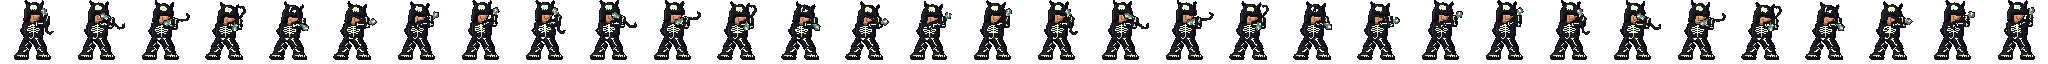
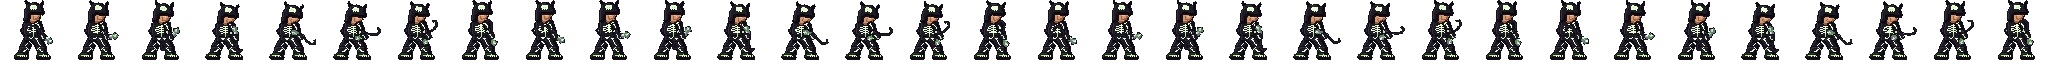
NU: thrown mic flies straight on its cord, idle twirl at his waist, HOMEROOM school-uniform costume with a locker-and-boombox amp
Claude-Session: https://claude.ai/code/session_01QrPMowW61BtpNneRMoKnVz

diff --git a/src/fighters/entities.js b/src/fighters/entities.js
@@ -556,7 +556,7 @@ export class MicToss {
     const h = this.hand(); this.x = h.x + this.dir * 4; this.y = h.y;
     this.vx = this.dir * spec.speed; this.vy = -0.4;
     this.phase = 'out'; this.t = 0; this.pt = 0; this.alive = true; this.id = nextId++; this.persist = true; this.kind = 'MIC TOSS';
-    this.beat = !!owner.onBeatMove; this.spin = 0;
+    this.beat = !!owner.onBeatMove;
     this.g = match.add.graphics(); match.addWorld(this.g);
     sfx('swing', 0.6, 1.2); sfx('whoosh', 0.3, 1.6);
   }
@@ -568,7 +568,7 @@ export class MicToss {
   }
   step() {
     const S = this.spec, o = this.owner;
-    this.t++; this.pt++; this.spin += this.phase === 'out' ? 0.6 : -0.6;
+    this.t++; this.pt++;
     if (!o.alive) { this.remove(); return; }
     const h = this.hand();
     if (this.phase === 'out') {
@@ -597,8 +597,8 @@ export class MicToss {
       const u = i / 12, qx = (1 - u) * (1 - u) * h.x + 2 * (1 - u) * u * mx + u * u * x, qy = (1 - u) * (1 - u) * h.y + 2 * (1 - u) * u * my + u * u * y;
       g.lineStyle(2, 0x14101c, 1); g.lineBetween(px, py, qx, qy); px = qx; py = qy;
     }
-    // the mic, tumbling end over end: handle and grille
-    const a = this.spin, cx = Math.cos(a), sy = Math.sin(a);
+    // the mic flies straight, lined up with its cord: handle toward his hand, grille leading
+    const a = Math.atan2(y - h.y, x - h.x), cx = Math.cos(a), sy = Math.sin(a);
     g.lineStyle(4, 0x14101c, 1); g.lineBetween(x - cx * 5, y - sy * 5, x + cx * 3, y + sy * 3);
     g.lineStyle(2, 0xb8c0ca, 1); g.lineBetween(x - cx * 5, y - sy * 5, x + cx * 3, y + sy * 3);
     g.fillStyle(0x14101c, 1); g.fillCircle(x + cx * 5, y + sy * 5, 4);
@@ -618,6 +618,9 @@ export class SpeakerAmp {
     this.x = owner.x + owner.facing * spec.ahead; this.y = owner.y - spec.dropFrom;
     this.vy = 1; this.falling = true; this.pulse = 0; this.crushed = new Set(); this.id = nextId++;
     this.g = match.add.graphics(); match.addWorld(this.g);
+    // costumes with their own amp drawing (HOMEROOM: a locker with a boombox on top)
+    const key = { nuSchool: 'nu_school_amp' }[owner.style];
+    if (key && match.textures.exists(key)) { this.img = match.add.sprite(this.x, this.y, key, 0).setOrigin(0.5, 1); match.addWorld(this.img); }
     sfx('swing', 0.5, 0.6);
   }
   step() {
@@ -680,6 +683,7 @@ export class SpeakerAmp {
     this.plat = { x1: this.x - 15, x2: this.x + 15, y: this.y - 60, solid: false, amp: true };
     this.match.stage.platforms.push(this.plat);
     sfx('bighit', 0.7, 0.6); this.match.shake(6, 6);
+    if (this.img) { sfx('ding', 0.5, 1.2); sfx('ding', 0.35, 1.5); }               // HOMEROOM: the school bell rings
     this.match.puff(this.x - 14, this.y - 2, 0xd8d4e8, 6); this.match.puff(this.x + 14, this.y - 2, 0xd8d4e8, 6);
   }
   removePlat() {
@@ -689,7 +693,7 @@ export class SpeakerAmp {
     for (const f of this.match.fighters) if (f.platform === this.plat) { f.grounded = false; f.platform = null; if (['idle', 'run', 'land', 'taunt'].includes(f.state)) f.setState('air'); }
     this.plat = null;
   }
-  kill() { if (!this.alive) return; this.alive = false; this.stopSong(); this.removePlat(); if (this.g) { this.match.puff(this.x, this.y - 12, 0x4a4656, 8); this.g.destroy(); } }
+  kill() { if (!this.alive) return; this.alive = false; this.stopSong(); this.removePlat(); if (this.img) this.img.destroy(); if (this.g) { this.match.puff(this.x, this.y - 12, 0x4a4656, 8); this.g.destroy(); } }
   render() {
     if (!this.alive) return;
     const g = this.g, P = this.owner.pal, fade = this.life - this.t < 40 ? (this.life - this.t) / 40 : 1;
@@ -702,6 +706,10 @@ export class SpeakerAmp {
       const r = (1 - k) * this.spec.radius;
       g.lineStyle(3, P.light, 0.8 * k * fade); g.strokeEllipse(this.x, this.y - 28, r * 2 + 20, (r * 2 + 20) / 1.4);
       g.lineStyle(1, 0xffffff, k * fade); g.strokeEllipse(this.x, this.y - 28, r * 1.7 + 14, (r * 1.7 + 14) / 1.4);
+    }
+    if (this.img) {                                                   // a costume's own drawing: two frames, cones pumped on the beat
+      this.img.setPosition(Math.round(this.x), Math.round(this.y)).setScale(1 / squash, squash).setAlpha(fade).setFrame(k > 0.35 ? 1 : 0).setDepth(this.g.depth);
+      return;
     }
     // two cabinets stacked: a big single cone on the bottom, two smaller cones on top
     for (let c = 0; c < 2; c++) {

diff --git a/src/scenes/MatchScene.js b/src/scenes/MatchScene.js
@@ -517,6 +517,11 @@ export class MatchScene extends Phaser.Scene {
     const n = v.n + Math.floor(kb / 2);
     const add = (o) => P.push({ size: 2, grav: 0.08, ...o });
     switch (v.shape) {
+      case 'paper':                                   // HOMEROOM: notebook paper scraps and chalk dust; big hits fold a paper airplane
+        for (let i = 0; i < n; i++) { const a = -Math.PI / 2 + (R() - 0.5) * 2.8, sp = 1.4 + R() * 2.6; add({ shape: 'paper', x, y, vx: Math.cos(a) * sp + dir * 0.6, vy: Math.sin(a) * sp, life: 34 + R() * 16, color: col(i), ang: R() * 6, spin: (R() - 0.5) * 0.3, drag: 0.94, grav: 0.05, sway: R() * 6 }); }
+        for (let i = 0; i < 6; i++) add({ x: x + (R() - 0.5) * 14, y: y + (R() - 0.5) * 10, vx: (R() - 0.5) * 1.2, vy: -R(), life: 16 + R() * 10, color: 0xf4f4f0, size: 1 + (R() < 0.3), grav: 0, drag: 0.92 });
+        if (dmg >= 9 || kb > 7) add({ shape: 'plane', x, y: y - 6, vx: dir * 3.2, vy: -1.4, life: 46, color: 0xffffff, grav: 0.02, dir });
+        break;
       case 'splat':                                   // BLOCK BOSS: spray-paint splats flying off, dripping
         for (let i = 0; i < n; i++) { const a = -Math.PI / 2 + (R() - 0.5) * 2.8, sp = 1.5 + R() * 3; add({ shape: 'splat', x, y, vx: Math.cos(a) * sp + dir, vy: Math.sin(a) * sp, life: 24 + R() * 14, color: col(i), r: 2 + Math.floor(R() * 3), drag: 0.9, grav: 0.12 }); }
         if (dmg >= 9 || kb > 7) for (let i = 0; i < 4; i++) add({ shape: 'star', x: x + (R() - 0.5) * 20, y: y - 10 + (R() - 0.5) * 16, vx: (R() - 0.5), vy: -1, life: 20, color: 0xffd23a, grav: 0 });   // bling on the big hits
@@ -567,6 +572,17 @@ export class MatchScene extends Phaser.Scene {
     const a = Math.min(1, p.life / 10), X = Math.round(p.x), Y = Math.round(p.y);
     switch (p.shape) {
       case 'win95': drawMiniWindow(g, X - 4, Y - 3, 9, 7, a, p.color); break;
+      case 'paper': {                                 // a scrap of lined notebook paper, fluttering
+        p.ang = (p.ang || 0) + (p.spin || 0.2); const w = Math.max(1, Math.round(Math.abs(Math.cos(p.ang)) * 4));
+        g.fillStyle(0x10101a, a * 0.6); g.fillRect(X - w / 2 - 1, Y - 3, w + 2, 6);
+        g.fillStyle(p.color, a); g.fillRect(X - w / 2, Y - 2, w, 4); if (w > 1) { g.fillStyle(0x8ab0e8, a); g.fillRect(X - w / 2, Y, w, 1); } break;
+      }
+      case 'plane': {                                 // a paper airplane gliding
+        const d2 = p.dir || 1;
+        g.fillStyle(0x10101a, a); g.fillTriangle(X + d2 * 6, Y, X - d2 * 6, Y - 4, X - d2 * 4, Y + 1);
+        g.fillStyle(0xffffff, a); g.fillTriangle(X + d2 * 5, Y, X - d2 * 5, Y - 3, X - d2 * 3, Y);
+        g.fillStyle(0xc8d0e0, a); g.fillTriangle(X + d2 * 5, Y, X - d2 * 3, Y, X - d2 * 4, Y + 2); break;
+      }
       case 'splat': g.fillStyle(p.color, a); g.fillCircle(X, Y, p.r); g.fillRect(X - 1, Y, 2, p.r + 2); g.fillStyle(0xffffff, a * 0.6); g.fillRect(X - 1, Y - p.r + 1, 1, 1); break;   // a paint splat with a drip
       case 'bone': {                                  // a little bone, tumbling
         p.ang = (p.ang || 0) + (p.spin || 0.3); const c = Math.cos(p.ang) * 3, s2 = Math.sin(p.ang) * 3;

diff --git a/src/fighters/skins.js b/src/fighters/skins.js
@@ -178,6 +178,14 @@ export const SKINS = {
       lore: 'Wore it to one Halloween show and never took it off. The bones started glowing on their own.',
       pal: { outline: 0x08060c, deep: 0x2a6a1a, mid: 0x4ab02a, light: 0x9aff6a, core: 0xe8ffd8, shade: 0x0e1a0a, void: 0x040804 },
       vfx: { hit: { shape: 'bones', colors: [0xe8ffd8, 0x9aff6a, 0xffffff], n: 6, ring: 0x9aff6a }, aura: { spooky: true }, trail: 0x9aff6a } },
+    // HOMEROOM: a school uniform worn his way - navy blazer with a gold crest, loose red tie, grey slacks, loafers, a
+    // red backpack and a red sweatband (pre-drawn sheets). His AMP DROP is a school locker with a boombox on top
+    // (school/amp.png) that rings the school bell when it lands. Paper and chalk dust fly off his hits, paper
+    // airplanes glide past, and his big hits fold up into paper airplanes of their own.
+    { name: 'HOMEROOM', swatch: 0x2a3670, fx: 0xd8221e, sheetSet: 'school', style: 'nuSchool',
+      lore: 'Front row of the school talent show, back row of every class. Got detention for the encore.',
+      pal: { outline: 0x10101a, deep: 0x161d44, mid: 0x2a3670, light: 0xd8221e, core: 0xffffff, shade: 0x0a0e22, void: 0x04060e },
+      vfx: { hit: { shape: 'paper', colors: [0xffffff, 0xe8f0ff, 0xd8221e], n: 7 }, aura: { school: true } } },
     { name: '1-BIT', swatch: 0xf4f4f0, fx: 0xf4f4f0, groups: { all: { center: 0 } }, rules: { all: { ramp: [0x0e0e10, 0xf4f4f0], lo: 0.12, hi: 0.4 } }, outline: 0xf4f4f0, edges: { color: 0x0e0e10, diff: 0.16, rim: true }, style: 'onebit',
       pal: { outline: 0xf4f4f0, deep: 0x0e0e10, mid: 0xf4f4f0, light: 0x2a2a2e, core: 0xf4f4f0, shade: 0x0e0e10, void: 0x050506 } },
   ],

diff --git a/src/fighters/fighterSpeech.js b/src/fighters/fighterSpeech.js
@@ -55,6 +55,11 @@ const QUIPS = {
     grab: [0.6, 'C\'MERE!'], throw: [0.6, 'GET OUTTA HERE!'], upb: [0.4, 'UP TOP!'],
     limit: [1, 'TURN IT UP!'], ko: [1, 'PEACE OUT.', 'STAY FRESH.'],
   },
+  'nu:nuSchool': {
+    attack: [0.12, 'POP QUIZ!', 'HEY!'], smash: [0.5, 'DETENTION!', 'CLASS DISMISSED!', 'SEE ME AFTER CLASS!'],
+    grab: [0.6, 'HALL PASS?'], throw: [0.6, 'GO TO THE PRINCIPAL!'], upb: [0.4, 'RECESS!'],
+    limit: [1, 'SCHOOL\'S OUT!'], ko: [1, 'SKIPPING CLASS...', 'TARDY...'],
+  },
   'nu:nuBones': {
     attack: [0.12, 'BOO!', 'RATTLE!'], smash: [0.5, 'BONE ZONE!', 'SPOOKY SCARY!', 'NO BONES ABOUT IT!'],
     grab: [0.6, 'HUG TIME!'], throw: [0.6, 'BONE APPETIT!'], upb: [0.4, 'WHEEE!'],
@@ -75,6 +80,7 @@ const QUIPS = {
 const SPEECH = {
   onebit: { typed: true, style: { fontFamily: FONT, fontSize: '7px', color: '#f4f4f0', backgroundColor: '#0e0e10', padding: { x: 3, y: 2 } } },
   nuStreet: { typed: false, style: { fontFamily: FONT, fontSize: '9px', fontStyle: 'bold', color: '#ffffff', stroke: '#d8221e', strokeThickness: 4 } },
+  nuSchool: { typed: false, style: { fontFamily: FONT, fontSize: '9px', fontStyle: 'bold', color: '#ffffff', stroke: '#2a3670', strokeThickness: 4 } },
   nuBones: { typed: false, style: { fontFamily: FONT, fontSize: '9px', fontStyle: 'bold', color: '#e8ffd8', stroke: '#1e3a12', strokeThickness: 4 } },
   nuInferno: { typed: false, style: { fontFamily: FONT, fontSize: '9px', fontStyle: 'bold', color: '#ffd060', stroke: '#5a0a06', strokeThickness: 4 } },
   hero: { typed: false, style: { fontFamily: FONT, fontSize: '10px', fontStyle: 'bold', color: '#ffe14a', stroke: '#2a0408', strokeThickness: 4 } },

diff --git a/src/scenes/BootScene.js b/src/scenes/BootScene.js
@@ -27,7 +27,8 @@ export class BootScene extends Phaser.Scene {
     for (const k of ['idle', 'run', 'jump', 'fall']) this.load.spritesheet('aero_king_inf_' + k, 'assets/fighters/aero/king/infected/' + k + '_sheet.png', { frameWidth: 64, frameHeight: 64 });
     this.load.spritesheet('aero_king_inf_moves', 'assets/fighters/aero/king/infected/moves_sheet.png', { frameWidth: 112, frameHeight: 104 });
     this.load.spritesheet('nu_moves', 'assets/fighters/nu/moves_sheet.png', { frameWidth: 112, frameHeight: 104 });
-    for (const c of ['inferno', 'street', 'bones']) {   // NU's costumes with their own drawing (tools/sprites/nu_costume_moves.py)
+    this.load.spritesheet('nu_school_amp', 'assets/fighters/nu/school/amp.png', { frameWidth: 32, frameHeight: 64 });   // HOMEROOM's AMP DROP: a locker and a boombox
+    for (const c of ['inferno', 'street', 'bones', 'school']) {   // NU's costumes with their own drawing (tools/sprites/nu_costume_moves.py)
       for (const k of ['idle', 'run', 'jump', 'fall']) this.load.spritesheet('nu_' + c + '_' + k, 'assets/fighters/nu/' + c + '/' + k + '_sheet.png', { frameWidth: 64, frameHeight: 64 });
       this.load.spritesheet('nu_' + c + '_moves', 'assets/fighters/nu/' + c + '/moves_sheet.png', { frameWidth: 112, frameHeight: 104 });
     }

diff --git a/src/fighters/fighterCostumeFx.js b/src/fighters/fighterCostumeFx.js
@@ -170,6 +170,10 @@ export class FighterCostumeFx {
       if (t % 46 === 3) P.push({ shape: 'star', x: cx + f * 4 + (R() - 0.5) * 6, y: this.y - d.body.h * 0.66, vx: 0, vy: -0.3, life: 14, color: 0xfff0a8, grav: 0 });
       if (this.grounded && Math.abs(this.vx) > 2.5 && t % 6 === 0) P.push({ shape: 'smoke', x: cx - f * 8, y: this.y - 2, vx: -f * 0.4, vy: -0.3, life: 18, maxLife: 18, r: 2, color: 0xd8d4e8, grav: 0 });
     }
+    if (a.school && !this.match.frozen) {           // HOMEROOM: paper airplanes glide past now and then, a little chalk dust
+      if (t % 150 === 0) { const d2 = R() < 0.5 ? 1 : -1; P.push({ shape: 'plane', x: cx - d2 * 60, y: this.y - d.body.h - 10 - R() * 20, vx: d2 * 2.2, vy: 0.15, life: 60, color: 0xffffff, grav: 0, dir: d2 }); }
+      if (t % 12 === 0) P.push({ x: cx + (R() - 0.5) * d.body.w, y: this.y - R() * d.body.h, vx: 0, vy: -0.2, life: 18, color: 0xf4f4f0, size: 1, grav: 0 });
+    }
     if (a.spooky) {                                  // BONEZ: a ghostly green glow pulsing round him, wisps drifting off
       const pulse = 0.08 + 0.06 * Math.sin(t * 0.08);
       back.fillStyle(0x9aff6a, pulse); back.fillEllipse(cx, this.y - d.body.h * 0.5, d.body.w * 2.4, d.body.h * 1.5);

diff --git a/src/fighters/nu.js b/src/fighters/nu.js
@@ -12,7 +12,7 @@ export const NU = {
   name: 'NU',
   sheets: { idle: 'nu_idle', run: 'nu_run', jump: 'nu_jump', fall: 'nu_fall', moves: 'nu_moves' },
   // costumes with their own drawing (skins.js sheetSet) - tools/sprites/nu_costume_moves.py
-  costumeSheets: Object.fromEntries(['inferno', 'street', 'bones'].map((s) => [s, Object.fromEntries(['idle', 'run', 'jump', 'fall', 'moves'].map((k) => [k, 'nu_' + s + '_' + k]))])),
+  costumeSheets: Object.fromEntries(['inferno', 'street', 'bones', 'school'].map((s) => [s, Object.fromEntries(['idle', 'run', 'jump', 'fall', 'moves'].map((k) => [k, 'nu_' + s + '_' + k]))])),
   runCycle: [0, 8],
   moveAnims: NU_MOVES, movesOrigin: [56 / 112, 95 / 104],
   originY: 59 / 64,                 // feet on row 58 of the 64x64 frame

diff --git a/tools/sprites/nu_school_draw.py b/tools/sprites/nu_school_draw.py
@@ -1,0 +1,144 @@
+"""NU's HOMEROOM costume: a school uniform worn the way he'd wear it. Same body, joints and rig as nu_draw.py (so
+every animation in nu_moves.py plays on it), redrawn:
+
+  - a navy blazer with a gold crest, a white shirt with the collar open and a red tie pulled loose
+  - grey slacks, brown loafers, white shirt cuffs
+  - his bleached spikes with blue tips, a plaster on his cheek, a red backpack slung over one shoulder
+
+Its AMP DROP is its own drawing too: a school locker with a boombox on top (school_amp(), saved as
+public/assets/fighters/nu/school/amp.png - two frames, the second with the speaker cones pumped).
+
+  python3 tools/sprites/nu_school_draw.py preview.png
+"""
+import os
+import numpy as np
+from PIL import Image, ImageDraw
+import nu_draw as N
+
+NAVY = (0x4a5a9e, 0x2a3670, 0x161d44)
+PAL = {
+    'hood': NAVY,                                     # the blazer
+    'pants': (0x9a9aa4, 0x74747e, 0x4a4a54),         # grey slacks
+    'shoe': (0xa8724a, 0x6e4426, 0x3e2412),          # brown loafers
+    'tip': (0xb8d4ff, 0x5a8ae8, 0x2a3e8a),           # blue tips on the bleached spikes
+    'acid': (0xff6a5a, 0xd8221e, 0x8a0e0e),          # school red
+    'band': (0xffffff, 0xe8e8ee, 0xa8a8b4),          # white shirt cuffs
+}
+OUT = 0x10101a
+GOLD = (0xfff0a8, 0xe0a83a, 0x8a5a14)
+WHITE = (0xffffff, 0xe8e8ee, 0xb0b0bc)
+hx = N.hx
+
+def put(a, pts, col):
+    for (x, y) in pts:
+        if 0 <= y < 64 and 0 <= x < 64 and a[y, x, 3]: a[y, x] = hx(col)
+
+def draw_parts():
+    old = dict(N.PAL)
+    N.PAL.update(PAL)
+    try:
+        P = N.draw_parts()
+    finally:
+        N.PAL.clear(); N.PAL.update(old)
+    # ---- the blazer: no print or drawstrings; shirt and loose tie down the front, lapels, crest, buttons
+    t = P['torso']; body = t[..., 3] > 0
+    outl = tuple(hx(N.OUT)[:3])
+    for y in range(18, 41):
+        for x in range(23, 44):
+            if body[y, x] and tuple(t[y, x, :3]) != outl and tuple(t[y, x, :3]) not in (tuple(hx(NAVY[0])[:3]), tuple(hx(NAVY[2])[:3])): t[y, x] = hx(NAVY[1])
+    for y in range(22, 32):                                                   # the open shirt: a white V narrowing down
+        w = max(1, 3 - (y - 22) // 3)
+        for x in range(35 - w, 36 + w): put(t, [(x, y)], WHITE[1])
+        put(t, [(35 - w, y)], WHITE[2])
+    put(t, [(33, 22), (37, 22)], WHITE[0])                                     # collar points
+    put(t, [(34, 23), (35, 23), (36, 23)], 0xd8221e)                          # the tie: a loose knot and a long tail
+    for y in range(24, 33): put(t, [(35, y), (36, y)], 0xd8221e if y % 3 else 0x8a0e0e)
+    put(t, [(35, 33)], 0x8a0e0e)
+    for y in range(23, 34): put(t, [(33 - (y - 23) // 4, y)], NAVY[2]); put(t, [(37 + (y - 23) // 5, y)], NAVY[0])   # lapels
+    put(t, [(28, 27), (29, 27), (30, 27), (28, 28), (30, 28), (29, 29)], GOLD[1]); put(t, [(29, 28)], 0xd8221e)   # the crest
+    put(t, [(36, 35), (36, 38)], GOLD[1])                                      # buttons
+    t[40, 25:42][t[40, 25:42, 3] > 0] = hx(PAL['pants'][1])
+    for y in range(24, 37):                                                    # the backpack behind him, a strap over his shoulder
+        for x in range(21, 25):
+            t[y, x] = hx(0xd8221e if x in (22, 23) else 0x8a0e0e)
+    t[24:37, 20] = hx(OUT); t[23, 21:25] = hx(OUT); t[37, 21:25] = hx(OUT); put(t, [(22, 30), (23, 30)], 0xffd23a)
+    put(t, [(26, 22), (27, 23), (28, 24), (29, 25)], 0x8a0e0e)
+    P['torso'] = t
+    # ---- slacks: a crease; loafers: a lighter strap
+    for nm in ('fthigh', 'bthigh', 'fshin', 'bshin'):
+        a = P[nm]; ys, xs = np.nonzero(a[..., 3])
+        if len(xs): cx = int(np.median(xs)); put(a, [(cx, y) for y in range(ys.min() + 1, ys.max())], PAL['pants'][2])
+    for nm, x0 in (('bshoe', 17), ('fshoe', 39)):
+        a = P[nm]
+        for y in range(53, 59):
+            for x in range(64):
+                if a[y, x, 3] and tuple(a[y, x, :3]) in [tuple(hx(c)[:3]) for c in PAL['acid']]: a[y, x] = hx(PAL['shoe'][0])
+        put(a, [(x0 + i, 55) for i in range(1, 6)], 0x3e2412)
+    # ---- face: no war paint, a plaster on the cheek
+    h = P['head']
+    h[12:15, 31:40][h[12:15, 31:40, 3] > 0] = hx(N.PAL['skin'][1])
+    h[13, 36] = hx(0x2a2630); h[13, 37] = hx(0xffffff); h[13, 33] = hx(0x2a2630); h[12, 36:38] = hx(0x6a4a2a); h[12, 33] = hx(0x6a4a2a)
+    h[16, 35:38] = hx(0xf0dcc0); h[16, 36] = hx(0xd8b898)
+    P['head'] = h
+    # ---- hair: goggles off, a red sweatband instead
+    a = P['hair']
+    a[8:12, 35:40][a[8:12, 35:40, 3] > 0] = hx(N.PAL['hair'][1])
+    for x in range(27, 41):
+        if a[9, x, 3]: a[9, x] = hx(0xd8221e)
+        if a[10, x, 3]: a[10, x] = hx(0x8a0e0e)
+    P['hair'] = a
+    return P
+
+ORDER, RIG = N.ORDER, N.RIG
+def composite(P, hide=('can',)): return N.composite(P, hide)
+
+def school_amp():
+    """AMP DROP in HOMEROOM: a blue school locker with a chunky boombox on top. 32x64, two frames (cones pumped)."""
+    frames = []
+    for pump in (0, 1):
+        im = Image.new('RGBA', (32, 64), (0, 0, 0, 0)); d = ImageDraw.Draw(im)
+        O = hx(0x10141c)
+        # -- the locker
+        d.rectangle([1, 30, 30, 63], fill=O); d.rectangle([2, 31, 29, 62], fill=hx(0x3a6ac8))
+        d.line([(2, 31), (29, 31)], fill=hx(0x7aa8f0)); d.line([(2, 31), (2, 62)], fill=hx(0x6a9ae8)); d.line([(29, 32), (29, 62)], fill=hx(0x24448a))
+        d.rectangle([4, 33, 27, 60], outline=hx(0x24448a))                      # the door
+        d.line([(5, 34), (26, 34)], fill=hx(0x6a9ae8))
+        for y in (36, 38, 40):                                                   # vent slats
+            d.line([(8, y), (23, y)], fill=hx(0x16244a)); d.line([(8, y + 1), (23, y + 1)], fill=hx(0x7aa8f0))
+        d.rectangle([11, 43, 20, 47], fill=hx(0xc8ccd4), outline=hx(0x5a5e6a))   # number plate: 07
+        for (x, y) in [(13, 44), (14, 44), (13, 45), (14, 46), (13, 46), (16, 44), (17, 44), (18, 44), (18, 45), (17, 46)]: d.point((x, y), fill=hx(0x16244a))
+        d.rectangle([23, 46, 25, 52], fill=hx(0xc8ccd4), outline=hx(0x5a5e6a))   # latch
+        d.arc([22, 51, 27, 56], 180, 360, fill=hx(0xa8acb4))                      # the padlock's shackle...
+        d.rectangle([22, 54, 27, 58], fill=hx(0xe0a83a), outline=hx(0x8a5a14)); d.point((24, 56), fill=hx(0x3e2412))   # ...and body
+        for (x, y) in [(7, 50), (6, 51), (7, 51), (8, 51), (7, 52), (5, 51), (9, 51), (6, 53), (8, 53)]: d.point((x, y), fill=hx(0xffd23a))   # a gold star sticker
+        d.rectangle([5, 56, 11, 58], fill=hx(0xffffff)); d.line([(6, 57), (10, 57)], fill=hx(0xd8221e))   # a NU sticker
+        # -- the boombox
+        d.arc([8, 2, 23, 14], 180, 360, fill=hx(0x3a3e48), width=2)             # carry handle
+        d.line([(28, 1), (28, 10)], fill=hx(0x8a90a0)); d.point((28, 0), fill=hx(0xd8221e))   # antenna
+        d.rectangle([0, 9, 31, 30], fill=O); d.rectangle([1, 10, 30, 29], fill=hx(0xc8ccd4))
+        d.line([(1, 10), (30, 10)], fill=hx(0xeef2f6)); d.line([(1, 29), (30, 29)], fill=hx(0x8a90a0)); d.line([(30, 11), (30, 28)], fill=hx(0x8a90a0))
+        d.rectangle([1, 26, 30, 28], fill=hx(0x3a3e48))                          # the dark band along the bottom
+        for i, c in enumerate((0xd8221e, 0xffd23a, 0x3ac85a, 0x3a8ae8)): d.rectangle([11 + i * 3, 11, 12 + i * 3, 12], fill=hx(c))   # buttons
+        d.rectangle([12, 14, 19, 20], fill=hx(0x1a1c22), outline=hx(0x5a5e6a))   # cassette window, two reels turning
+        for rx in (14, 17): d.ellipse([rx - 1, 16, rx + 1, 18], fill=hx(0xc8ccd4)); d.point((rx, 17), fill=hx(0x1a1c22))
+        d.rectangle([13, 22, 18, 24], fill=hx(0x8a90a0))                         # the tuner strip
+        d.point((14 + pump * 3, 23), fill=hx(0xd8221e))
+        for cx in (6, 25):                                                       # the speakers
+            r = 5 + pump
+            d.ellipse([cx - r, 19 - r, cx + r, 19 + r], fill=O)
+            d.ellipse([cx - r + 1, 19 - r + 1, cx + r - 1, 19 + r - 1], fill=hx(0x4a4e58))
+            d.ellipse([cx - 2 - pump, 17 - pump, cx + 2 + pump, 21 + pump], fill=hx(0x2a2c34))
+            d.point((cx, 19), fill=hx(0xd8221e)); d.point((cx - 2, 16), fill=hx(0x8a90a0))
+        frames.append(np.array(im))
+    return np.concatenate(frames, 1)
+
+if __name__ == '__main__':
+    import sys
+    c = composite(draw_parts())
+    bg = Image.new('RGBA', (64, 64), (60, 70, 90, 255)); bg.alpha_composite(Image.fromarray(c))
+    bg.resize((640, 640), Image.NEAREST).save(sys.argv[1] if len(sys.argv) > 1 else 'nu_school.png')
+    amp = Image.fromarray(school_amp())
+    out = os.path.join(os.path.dirname(__file__), '..', '..', 'public', 'assets', 'fighters', 'nu', 'school')
+    os.makedirs(out, exist_ok=True); amp.save(os.path.join(out, 'amp.png'))
+    if len(sys.argv) > 2:
+        bg = Image.new('RGBA', amp.size, (60, 70, 90, 255)); bg.alpha_composite(amp); bg.resize((amp.size[0] * 8, amp.size[1] * 8), Image.NEAREST).save(sys.argv[2])

diff --git a/tools/sprites/nu_costume_moves.py b/tools/sprites/nu_costume_moves.py
@@ -5,8 +5,9 @@ every one of them).
   inferno  nu_inferno_draw.py   fire hair (5 flickering drawings), studded leather
   street   nu_street_draw.py    BLOCK BOSS: backwards snapback, white tee, gold chain, jeans
   bones    nu_bones_draw.py     BONEZ: a glow-in-the-dark skeleton onesie
+  school   nu_school_draw.py    HOMEROOM: a school uniform (its locker amp: run nu_school_draw.py)
 
-  python3 tools/sprites/nu_costume_moves.py [inferno street bones]
+  python3 tools/sprites/nu_costume_moves.py [inferno street bones school]
 """
 import os, sys, tempfile, importlib
 import numpy as np
@@ -14,7 +15,7 @@ sys.path.insert(0, os.path.dirname(__file__))
 from puppet import Part, Rig
 import nu_moves as M
 
-COSTUMES = {'inferno': ('nu_inferno_draw', (255, 122, 26)), 'street': ('nu_street_draw', (255, 210, 90)), 'bones': ('nu_bones_draw', (154, 255, 106))}
+COSTUMES = {'inferno': ('nu_inferno_draw', (255, 122, 26)), 'street': ('nu_street_draw', (255, 210, 90)), 'bones': ('nu_bones_draw', (154, 255, 106)), 'school': ('nu_school_draw', (90, 138, 232))}
 
 def build_rig(D):
     layers = D.draw_parts()

diff --git a/tools/sprites/nu_moves.py b/tools/sprites/nu_moves.py
@@ -85,7 +85,7 @@ def idle_keys():
         spin = -i * 7.5                                                   # one full turn every 48 ticks
         ph = i * math.pi / 24
         nod = math.sin(i * math.pi / 48) ** 2                            # a nod every 48 ticks, in time with the twirl
-        keys.append(k(i, P(fupper=(-55 + 6 * math.sin(ph), 0, 0), ffore=(25 + 10 * math.cos(ph), 0, 0), mic=(spin, 0, 0), ffist=(0, 0, 0),
+        keys.append(k(i, P(fupper=(12 + 5 * math.sin(ph), 0, 0), ffore=(105 + 8 * math.cos(ph), 0, 0), mic=(spin, 0, 0), ffist=(0, 0, 0),
                            head=(4 + 10 * nod, 0, 1 if nod > 0.5 else 0), hair=(-6 * nod, 0, 0), torso=(-2 + 3 * nod, 0, 0),
                            bupper=(10, 0, 0), bfore=(-20, 0, 0), root=(0, 0, 0, 1 + 0.02 * nod, 1 - 0.02 * nod), **legs(2 * nod, -2 * nod, -2 * nod, 3 * nod)), 'linear'))
     return keys

diff --git a/CLAUDE.md b/CLAUDE.md
@@ -52,7 +52,7 @@ Owner: Mason (artist; does the sprites and design). Live build: https://kobrabro
 - **Test fighters** (`TEST_ROSTER` in `roster.js`, played from Trinkets > TEST FIGHTERS, never on the select grid):
   **NU** (`nu`, keys `nu_*`, art `tools/sprites/nu_draw.py` + `nu_moves.py`; passive ON BEAT (`def.beat`: attacks started on the
   beat ring hit harder and build a STREAK), Power Chord (hold), MIC TOSS side-B (`MicToss` in entities.js), AMP DROP (`SpeakerAmp` in entities.js), WALL OF
-  SOUND limit (4 x 8 + 18 = 50%); costumes with their own drawing - INFERNO / BLOCK BOSS / BONEZ - drawn by `nu_inferno_draw.py` / `nu_street_draw.py` / `nu_bones_draw.py`, built by `nu_costume_moves.py`, styles `nuInferno` / `nuStreet` / `nuBones`) and **AERO** (`aero`, keys `aero_*`, `aero_draw.py` +
+  SOUND limit (4 x 8 + 18 = 50%); costumes with their own drawing - INFERNO / BLOCK BOSS / BONEZ / HOMEROOM - drawn by `nu_inferno_draw.py` / `nu_street_draw.py` / `nu_bones_draw.py` / `nu_school_draw.py`, built by `nu_costume_moves.py`, styles `nuInferno` / `nuStreet` / `nuBones` / `nuSchool`; HOMEROOM's amp is its own sprite `nu/school/amp.png`) and **AERO** (`aero`, keys `aero_*`, `aero_draw.py` +
   `aero_moves.py`; his FULL AERO form - permanent until KO'd, floating (`def.float`), attacking with a golden spear (spear animations `k_*`) (part `spear`; `SPEAR` in aero.js grows his normals' reach and damage) - is `aero_king_*`, def `AERO_FULL`; its art is Mason's drawings `tools/sprites/art/full_aero.png` (and `full_aero_infected.png`, worn on INFECTED.EXE via `stageSheets`), cut into parts by `aero_king_mason.py`). 64×64 base frames, 112×104 moves.
   **WHAT ONCE WAS** (`what-once-was`, keys `wow_*`, art `tools/sprites/what_once_was_draw.py` + `what_once_was_moves.py`, same rig as NU):
   a deformed Backrooms entity with a CRT TV head (screen layers `scr_*` picked per pose). MISSING Poster, Channel Surf side-B, OUT OF
